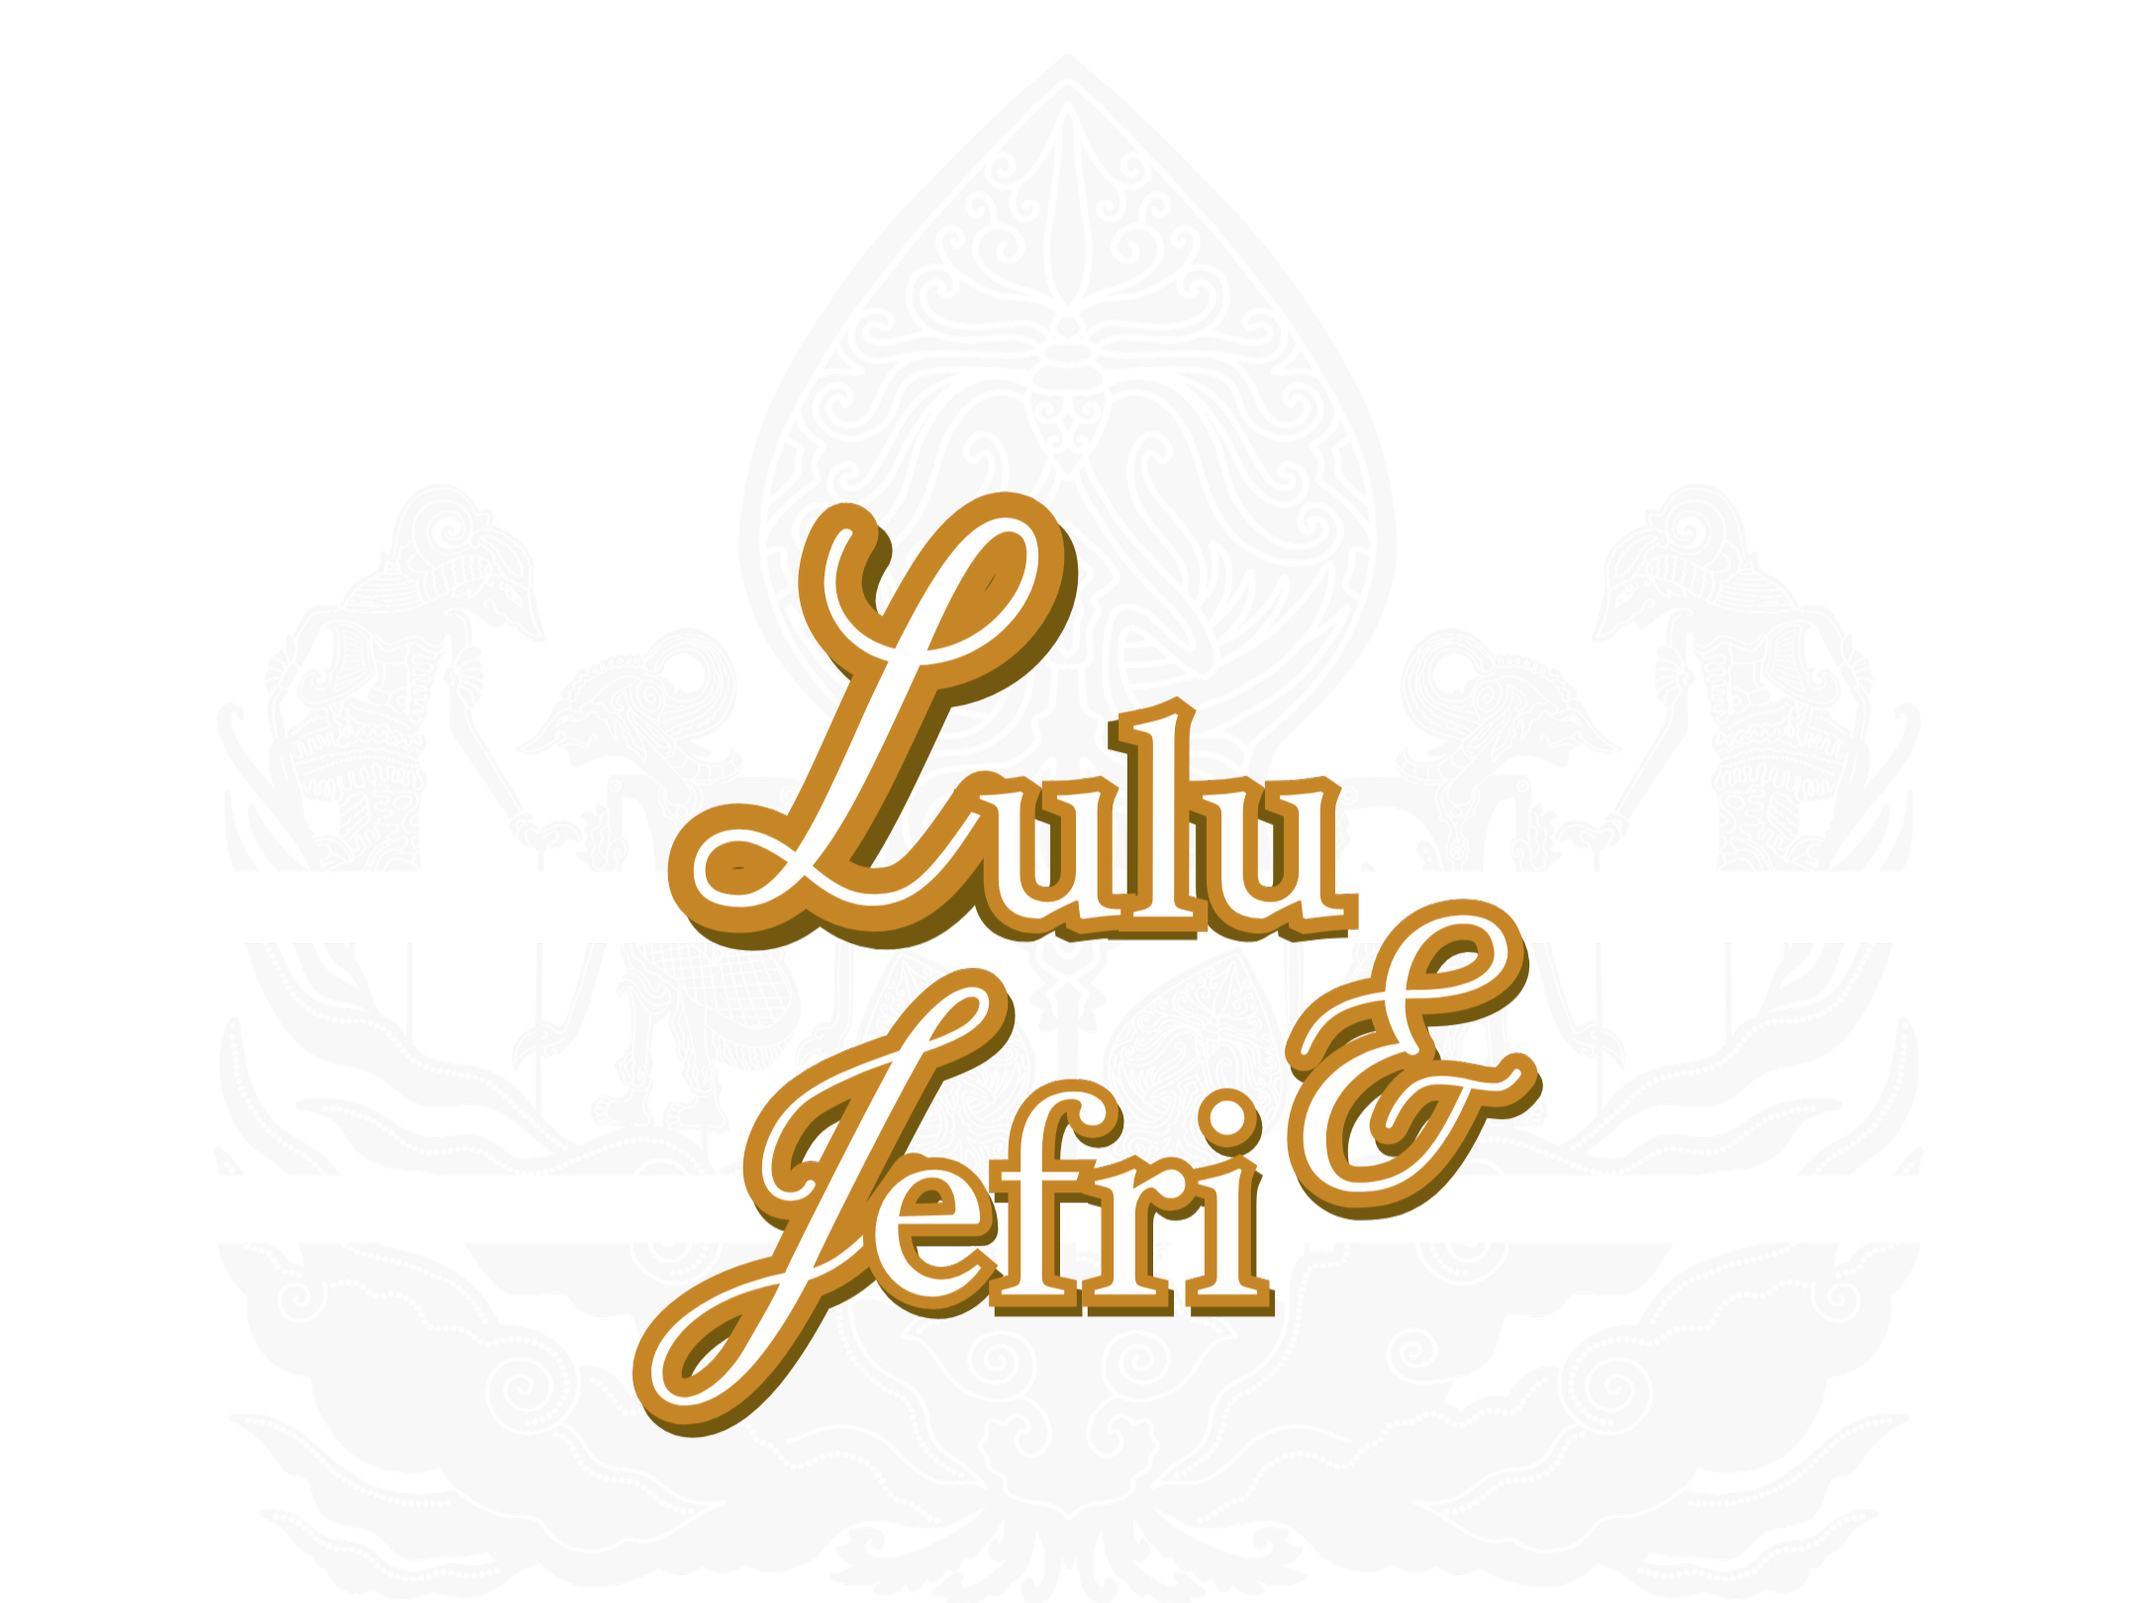
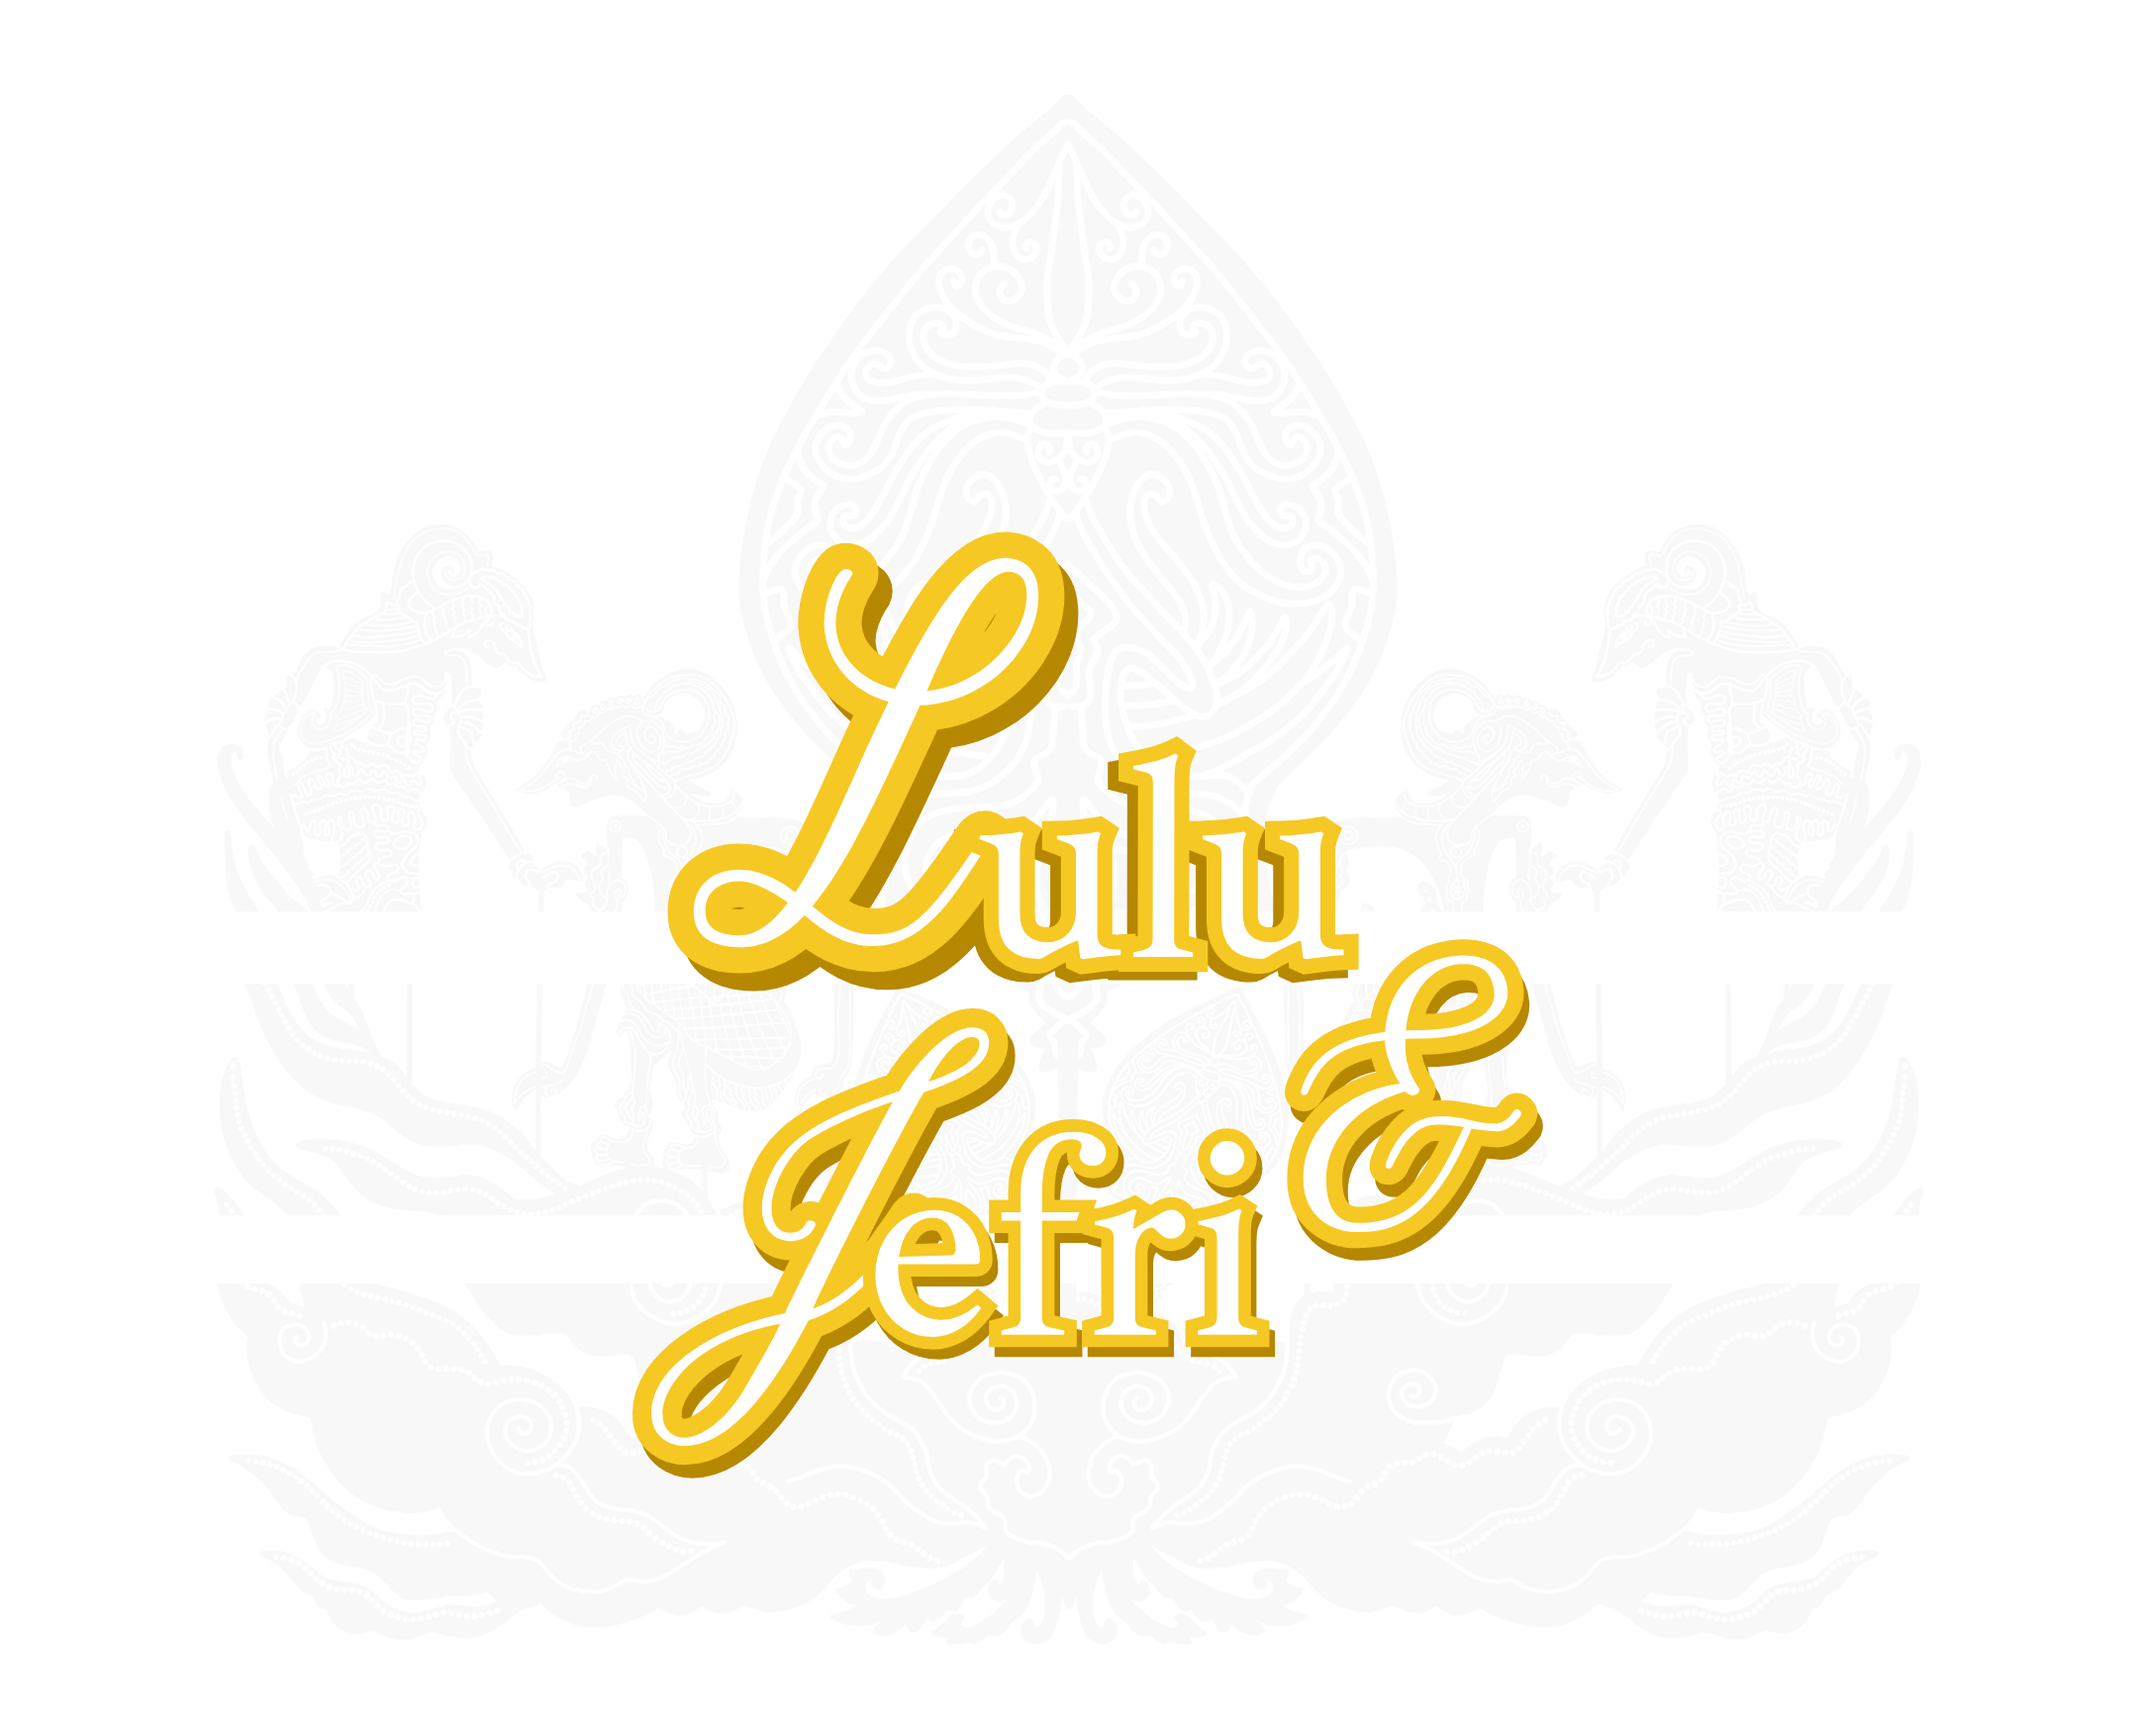
Update home page, layout, main page, and cover asset

Changed region(s): [[0.2792, 0.3086, 0.7444, 0.8951]]

diff --git a/app/home/page.tsx b/app/home/page.tsx
@@ -110,7 +110,7 @@ export default function Home() {
             </div>
 
             <div className="mt-2 flex flex-col items-center gap-2 text-center fade-up-enter [animation-delay:600ms]">
-              <p className="text-lg sm:text-xl font-serif text-amber-200 tracking-wide drop-shadow-md">
+              <p className="text-lg sm:text-xl font-serif text-[#f6c824] tracking-wide drop-shadow-md">
                 Jum&apos;at, 05 Juni 2026
               </p>
               <div className="px-6 py-2 glass rounded-full animate-pulse border border-white/10">
@@ -119,7 +119,7 @@ export default function Home() {
                 </p>
               </div>
               <div className="mt-4 glass px-6 py-3 rounded-[30px] border border-white/10">
-                <div className="flex gap-4 sm:gap-6 text-amber-200">
+                <div className="flex gap-4 sm:gap-6 text-[#f6c824]">
                   <div className="text-center">
                     <p className="text-2xl sm:text-3xl font-serif font-bold">{countdown.days}</p>
                     <p className="text-[10px] sm:text-xs tracking-widest uppercase opacity-70">Hari</p>
@@ -147,22 +147,22 @@ export default function Home() {
             <h2 className="mb-6 text-4xl sm:text-5xl font-serif text-amber-50 drop-shadow-lg italic">Pasangan Pengantin</h2>
             <div className="glass p-4 sm:p-8 rounded-[50px] w-full max-w-lg space-y-8 sm:space-y-12">
               <div className="flex justify-center gap-8 mb-4">
-                <div className="relative w-28 h-28 rounded-full overflow-hidden border-2 border-amber-200">
+                <div className="relative w-28 h-28 rounded-full overflow-hidden border-2 text-[#f6c824]">
                   <Image src="/assets/lulu.jpeg" alt="Lukmanul Khotimah" fill sizes="112px" className="object-cover" />
                 </div>
-                <div className="relative w-28 h-28 rounded-full overflow-hidden border-2 border-amber-200">
+                <div className="relative w-28 h-28 rounded-full overflow-hidden border-2 text-[#f6c824]">
                   <Image src="/assets/fais.jpeg" alt="Moh. Fais Jefri Albukhori" fill sizes="112px" className="object-cover" />
                 </div>
 
               </div>
               <div className="space-y-3">
-                <h3 className="text-2xl sm:text-3xl font-serif italic text-amber-200">Lukmanul Khotimah, S.Tr., Ak</h3>
+                <h3 className="text-2xl sm:text-3xl font-serif italic text-[#f6c824]">Lukmanul Khotimah, S.Tr., Ak</h3>
                 <p className="text-xs opacity-70 italic">Putri dari</p>
                 <p className="text-base sm:text-lg font-medium tracking-wide">Bpk. Hafid & Ibu Rumyati</p>
               </div>
               <div className="text-3xl font-serif opacity-30 italic">dengan</div>
               <div className="space-y-3">
-                <h3 className="text-2xl sm:text-3xl font-serif italic text-amber-200">Moh. Fais Jefri Albukhori, S.Tr., Ak</h3>
+                <h3 className="text-2xl sm:text-3xl font-serif italic text-[#f6c824]">Moh. Fais Jefri Albukhori, S.Tr., Ak</h3>
                 <p className="text-xs opacity-70 italic">Putra dari</p>
                 <p className="text-base sm:text-lg font-medium tracking-wide">Alm. Bpk. Jaelani & Ibu Suti’ah</p>
               </div>
@@ -176,20 +176,20 @@ export default function Home() {
             <div className="glass p-8 sm:p-10 rounded-[50px] w-full max-w-lg space-y-8">
               <div className="space-y-4">
                 <div className="space-y-1">
-                  <p className="font-bold text-xl tracking-widest text-amber-200 font-serif italic">Hari & Tanggal</p>
+                  <p className="font-bold text-xl tracking-widest text-[#f6c824] font-serif italic">Hari & Tanggal</p>
                   <p className="text-lg sm:text-xl">Jum&apos;at, 05 Juni 2026</p>
                   <a
                     href="https://www.google.com/calendar/render?action=TEMPLATE&text=The+Wedding+of+Lulu+%26+Jefri&dates=20260605/20260606&location=Dsn.+Asemkandang,+Buduan,+Suboh,+Situbondo"
                     target="_blank"
                     rel="noopener noreferrer"
-                    className="inline-block mt-3 px-6 py-2 border border-amber-200/50 rounded-full text-sm text-amber-200 hover:bg-amber-200/10 transition-colors"
+                    className="inline-block mt-3 px-6 py-2 border text-[#f6c824]/50 rounded-full text-sm text-[#f6c824] hover:text-[#f6c824]/10 transition-colors"
                   >
                     Simpan Tanggal
                   </a>
                 </div>
                 <div className="w-1/3 h-px bg-white/20 mx-auto"></div>
                 <div className="space-y-1">
-                  <p className="font-bold text-xl tracking-widest text-amber-200 font-serif italic">Tempat</p>
+                  <p className="font-bold text-xl tracking-widest text-[#f6c824] font-serif italic">Tempat</p>
                   <p className="text-sm sm:text-base leading-relaxed">
                     Dsn. Asemkandang, Buduan, Suboh, Situbondo
                   </p>
@@ -197,7 +197,7 @@ export default function Home() {
                     href="https://maps.app.goo.gl/QtBwAwMgsUPjJoqVA"
                     target="_blank"
                     rel="noopener noreferrer"
-                    className="inline-block mt-3 px-6 py-2 border border-amber-200/50 rounded-full text-sm text-amber-200 hover:bg-amber-200/10 transition-colors"
+                    className="inline-block mt-3 px-6 py-2 border text-[#f6c824]/50 rounded-full text-sm text-[#f6c824] hover:text-[#f6c824]/10 transition-colors"
                   >
                     Lihat Alamat
                   </a>
@@ -290,8 +290,8 @@ export default function Home() {
   };
 
   return (
-    <div className="relative z-10 font-sans selection:bg-amber-200/30">
-      <button onClick={audioContext?.togglePlay} className="fixed top-4 right-4 z-[100] bg-amber-200/20 backdrop-blur-sm text-amber-200 w-10 h-10 rounded-full flex items-center justify-center border border-amber-200/30">
+    <div className="relative z-10 font-sans selection:text-[#f6c824]/30">
+      <button onClick={audioContext?.togglePlay} className="fixed top-4 right-4 z-[100] text-[#f6c824]/20 backdrop-blur-sm text-[#f6c824] w-10 h-10 rounded-full flex items-center justify-center border text-[#f6c824]/30">
         <FontAwesomeIcon icon={audioContext?.isPlaying ? faPause : faPlay} />
       </button>
 
@@ -318,7 +318,7 @@ export default function Home() {
             <button
               key={item.id}
               onClick={() => handleTabChange(item.id)}
-              className={`flex flex-col items-center transition-all duration-300 cursor-pointer ${activeTab === item.id ? "scale-105 -translate-y-1.5 text-amber-200" : "opacity-40 text-white hover:opacity-100"
+              className={`flex flex-col items-center transition-all duration-300 cursor-pointer ${activeTab === item.id ? "scale-105 -translate-y-1.5 text-[#f6c824]" : "opacity-40 text-white hover:opacity-100"
                 }`}
             >
               <div className="text-xl sm:text-2xl drop-shadow-md">
@@ -328,7 +328,7 @@ export default function Home() {
                 {item.title}
               </span>
               {activeTab === item.id && (
-                <div className="w-1.5 h-1.5 bg-amber-200 rounded-full mt-1 shadow-sm animate-pulse" />
+                <div className="w-1.5 h-1.5 text-[#f6c824] rounded-full mt-1 shadow-sm animate-pulse" />
               )}
             </button>
           ))}

diff --git a/app/page.tsx b/app/page.tsx
@@ -41,7 +41,7 @@ export default function LandingPage() {
         </div>
         <button 
           onClick={handleOpen}
-          className="flex items-center gap-2 px-8 py-3 bg-white/10 backdrop-blur-md text-amber-200 border border-amber-200/50 rounded-full font-semibold font-serif hover:bg-white/20 transition-all shadow-lg"
+          className="flex items-center gap-2 px-8 py-3 bg-white/10 backdrop-blur-md text-[#f6c824] border text-[#f6c824]/50 rounded-full font-semibold font-serif hover:bg-white/20 transition-all shadow-lg"
         >
           <FontAwesomeIcon icon={faEnvelopeOpenText} />
           Buka Undangan
